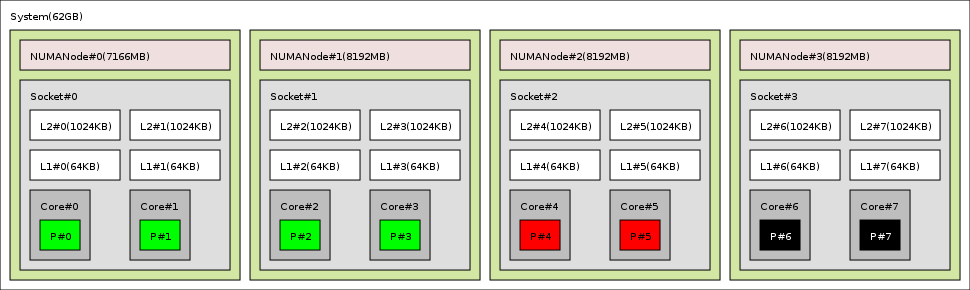
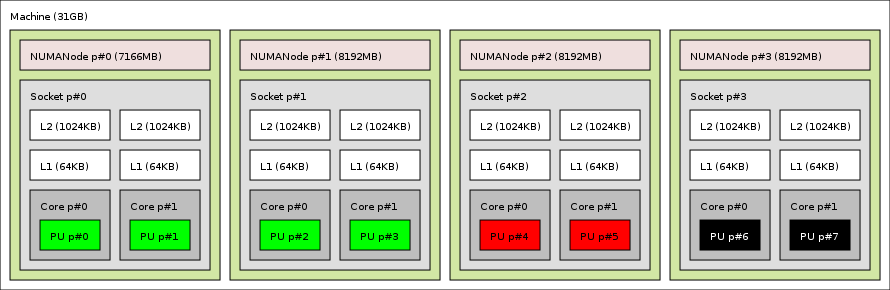
Fix proc object width in graphical lstopo, update documentation images
git-svn-id: http://svn.open-mpi.org/svn/hwloc/trunk@1893 4b44e086-7f34-40ce-a3bd-00e031736276

Changed region(s): [[0.0, 0.0931, 1.0, 0.9621], [0.0, 0.031, 0.091, 0.0931]]

diff --git a/utils/lstopo-draw.c b/utils/lstopo-draw.c
@@ -352,7 +352,7 @@ lstopo_obj_snprintf(char *text, size_t textlen, hwloc_obj_t obj, int logical)
 static void
 proc_draw(hwloc_topology_t topology, struct draw_methods *methods, int logical, hwloc_obj_t level, void *output, unsigned depth, unsigned x, unsigned *retwidth, unsigned y, unsigned *retheight)
 {
-  *retwidth = fontsize ? 5*fontsize : gridsize;
+  *retwidth = fontsize ? (6-logical)*fontsize : gridsize;
   *retheight = gridsize + (fontsize ? (fontsize + gridsize) : 0);
 
   DYNA_CHECK();
